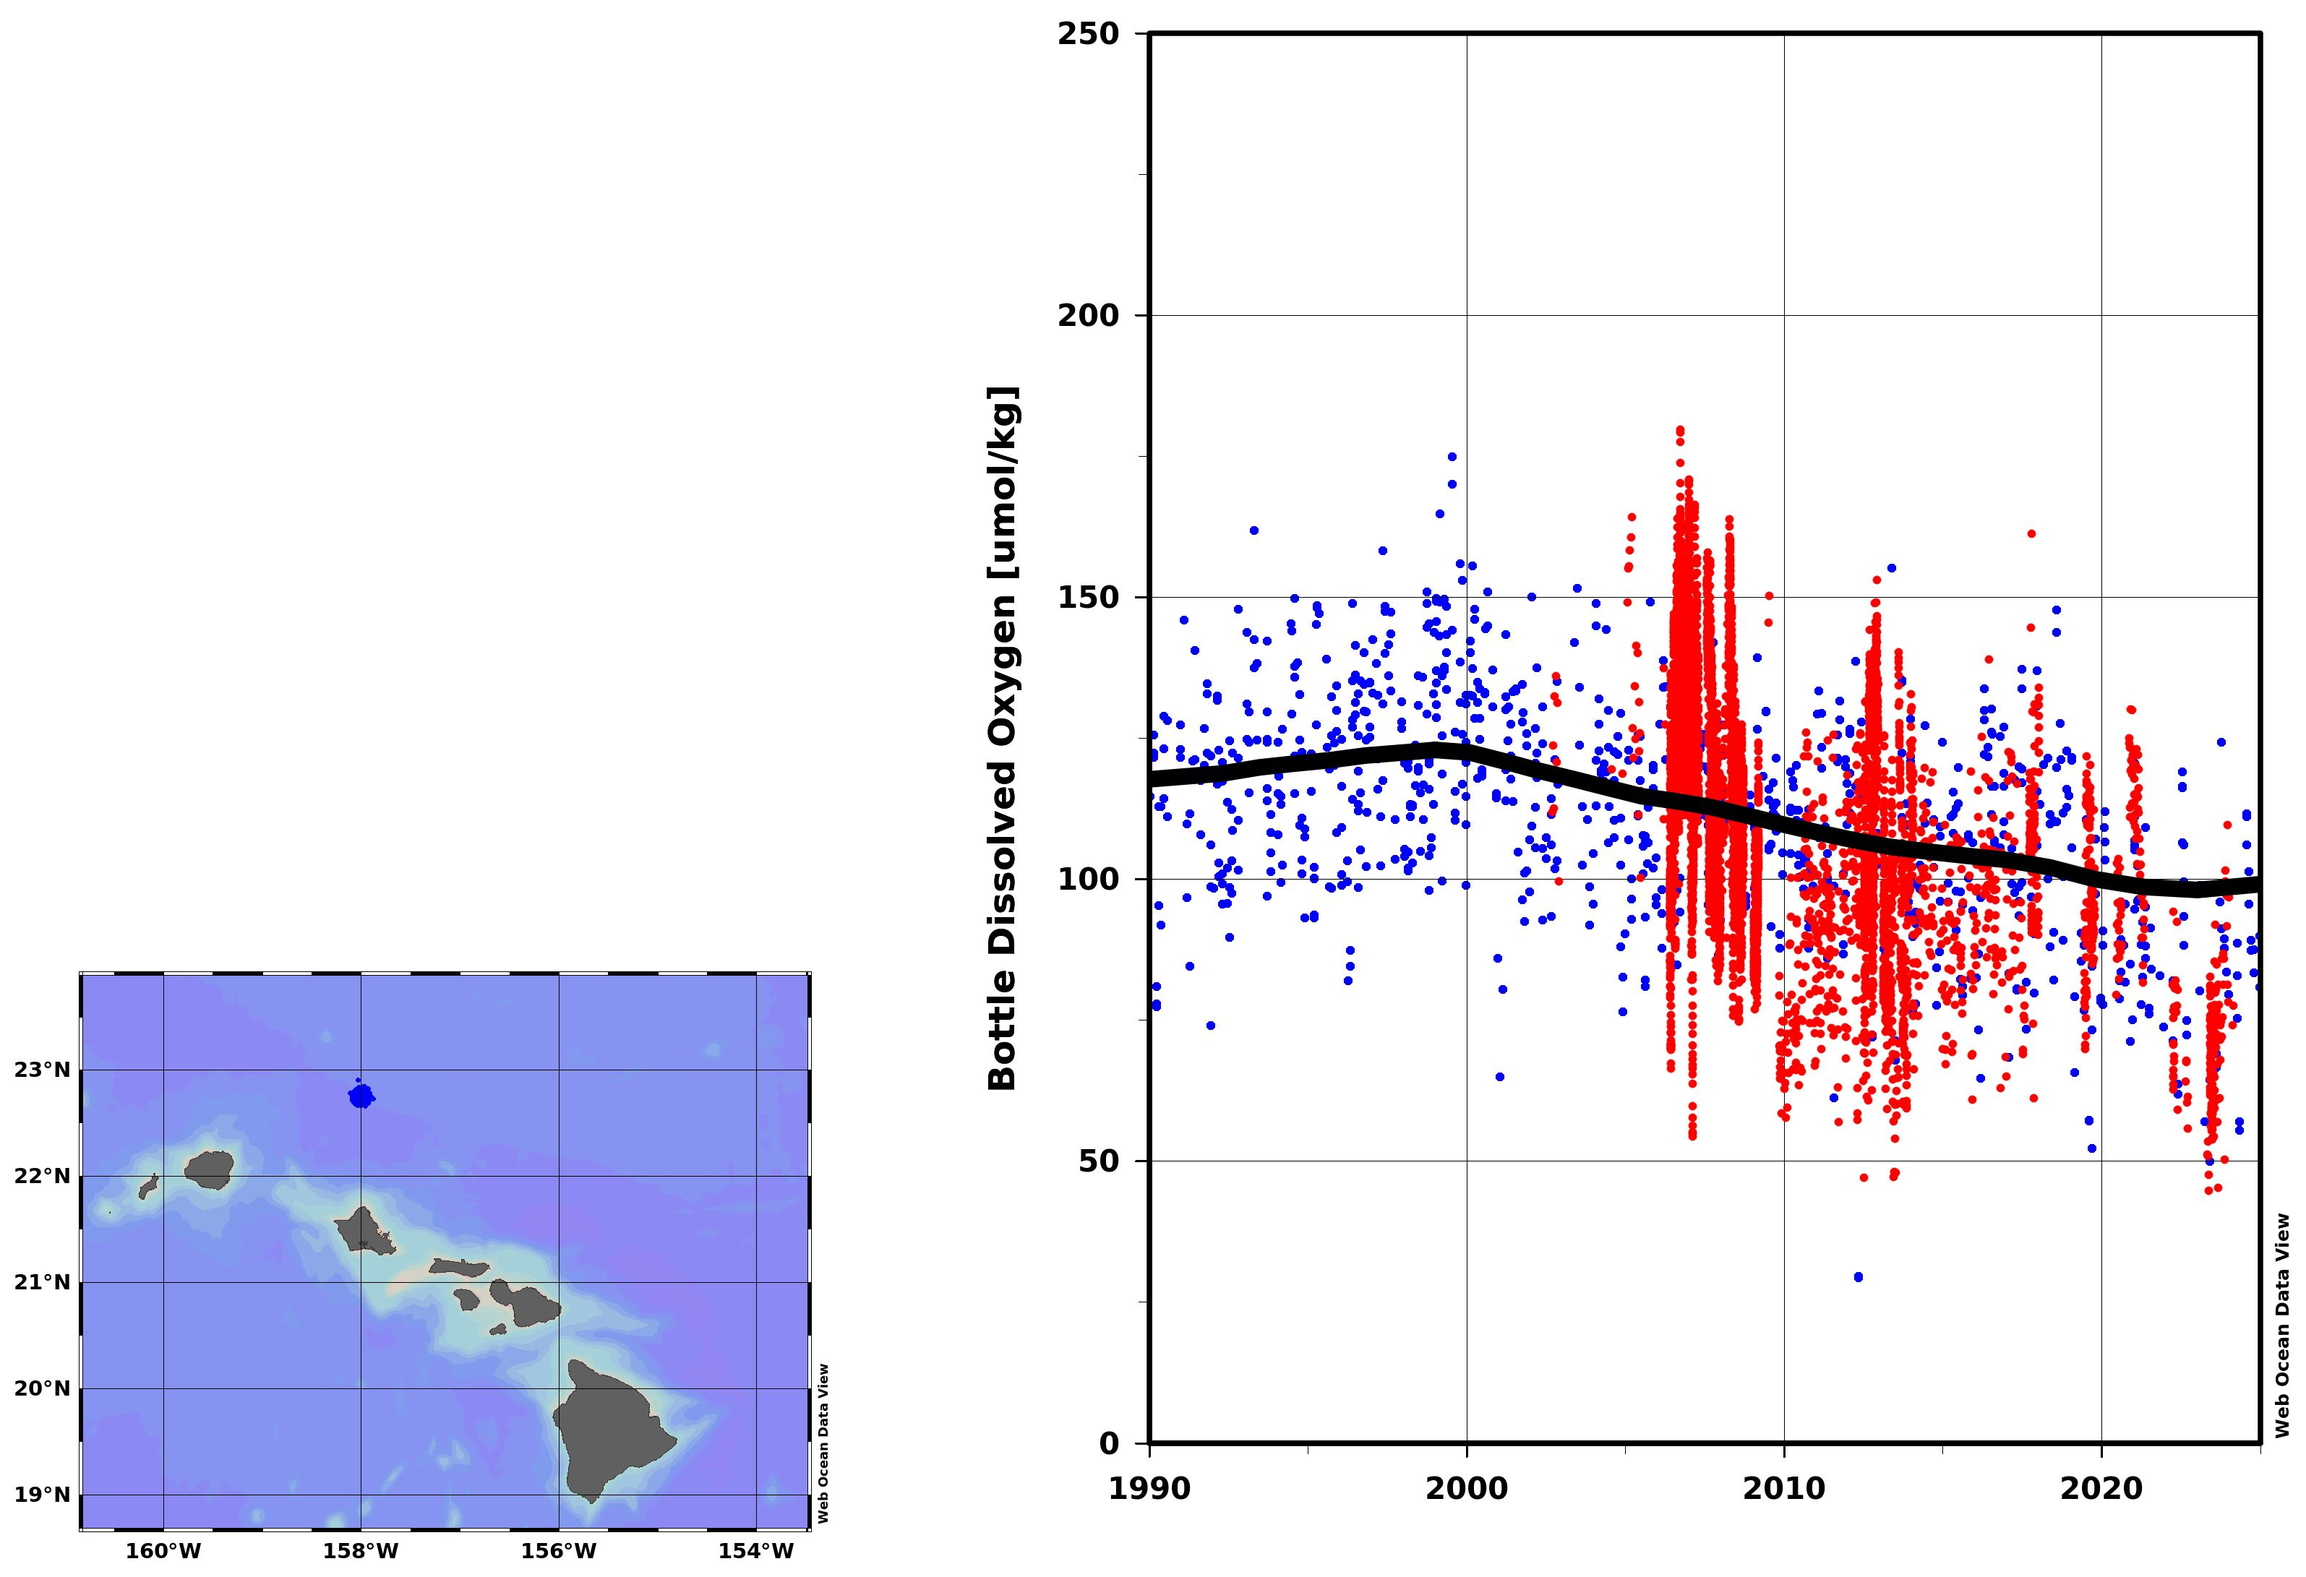
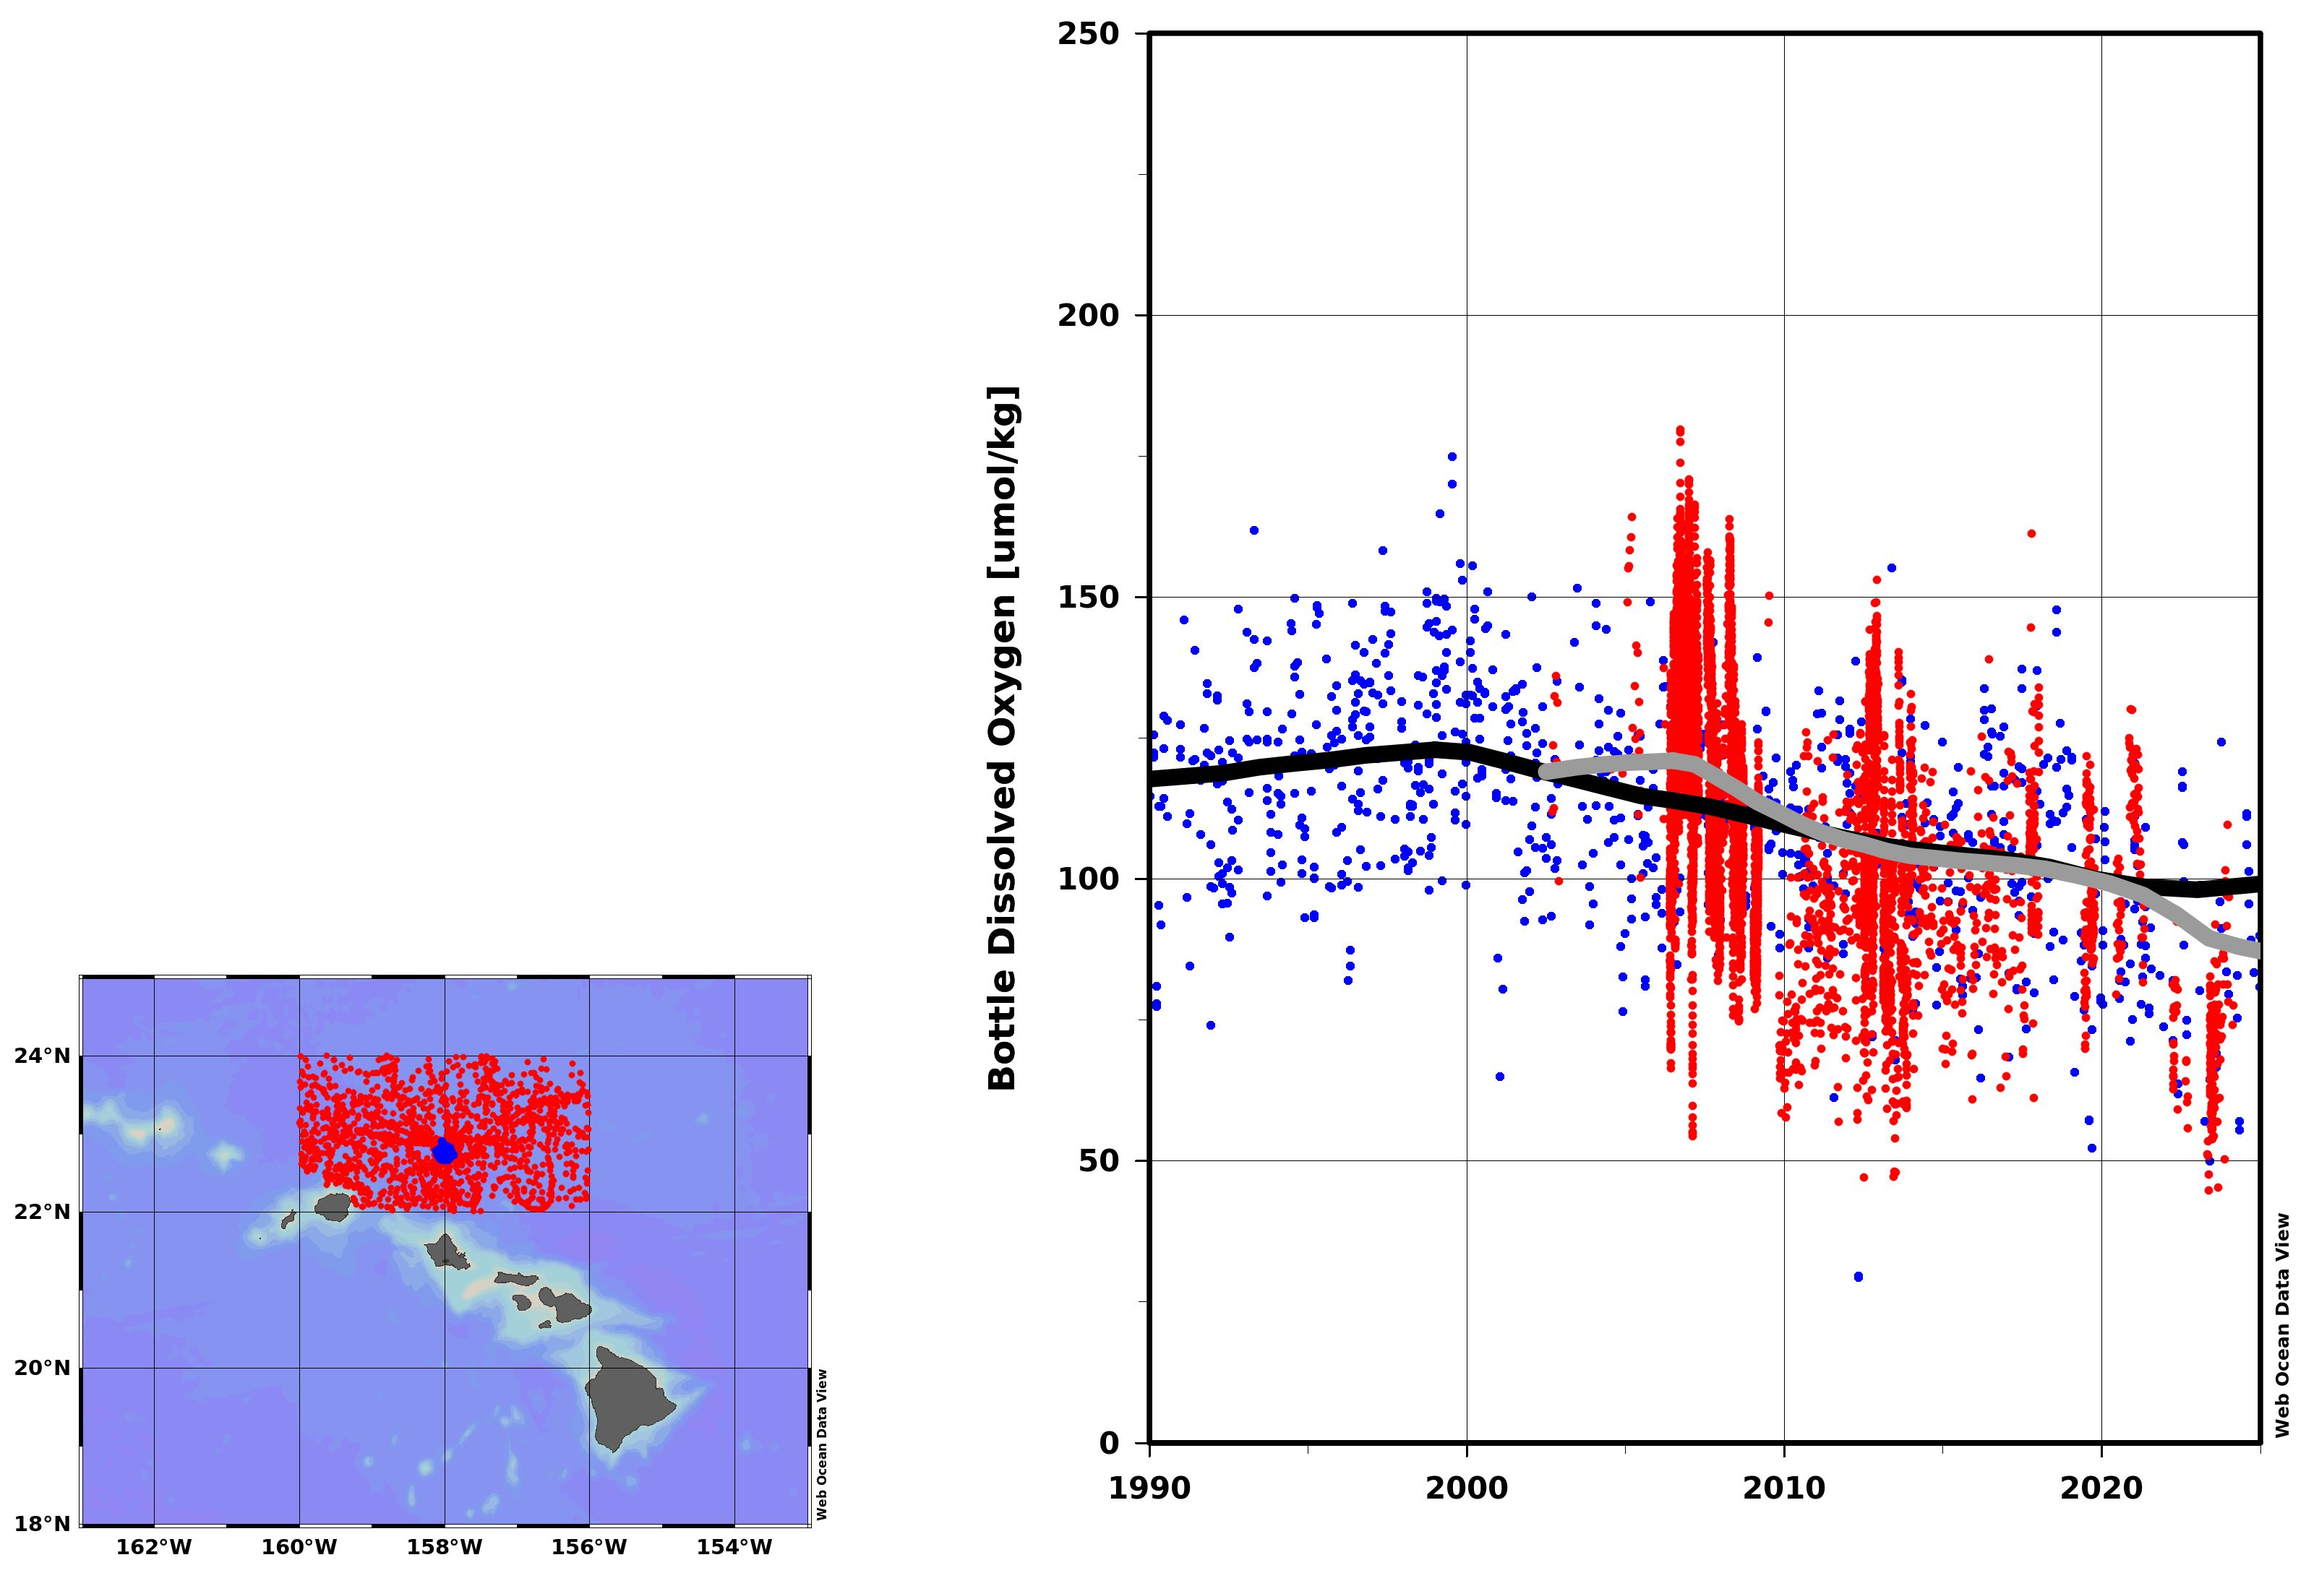
update readme

diff --git a/README.md b/README.md
@@ -160,6 +160,21 @@ Go back into the latest HOT view, right click into the scatter window and select
 Graphics Object->from Clipboard*. The Argo data appears. Right click on the Argo data to open the
 object *Properties*. Choose *Fill color: 12* and *Border color: 12*. Click on Apply. Then right click on
 the HOT moving average line, select *Move to Foreground*.
+
+Now we go back to the Argo view to copy the moving average line. Right click on the moving average
+line and select *Export Object->to Clipboard*. Back in HOT, right click into the free area in the
+scatter window and select *Layout->Add Graphics Object->from Clipboard*.
+
+Again in the Argo webODV, right click into the map and select *Extras->Export as Graphics
+Object->Station Dots->to Clipboard*. Go back to HOT, right click into the map and choose
+*Layout->Add Graphics Object->from Clipboard*.
+
+Now we need a trick to make the HOT station data visible. Right click into the map and select
+*Extras->Export as Graphics Object->Station Dots->to Clipboard*. Again right click into the map and
+choose *Layout->Add Graphics Object->from Clipboard* to copy a graphics object of the data into the
+map. Right click on HOT object data and choose *Fill color: 1*, *Border color: 1* and *Size: 12*.
+
+
 Respective view file: [webodv_xservint_hot_go.xview](webodv_xservint_hot_go.xview).
 
 ![alt text](./hot_step_5.jpg "Copy Graphics Object") 
